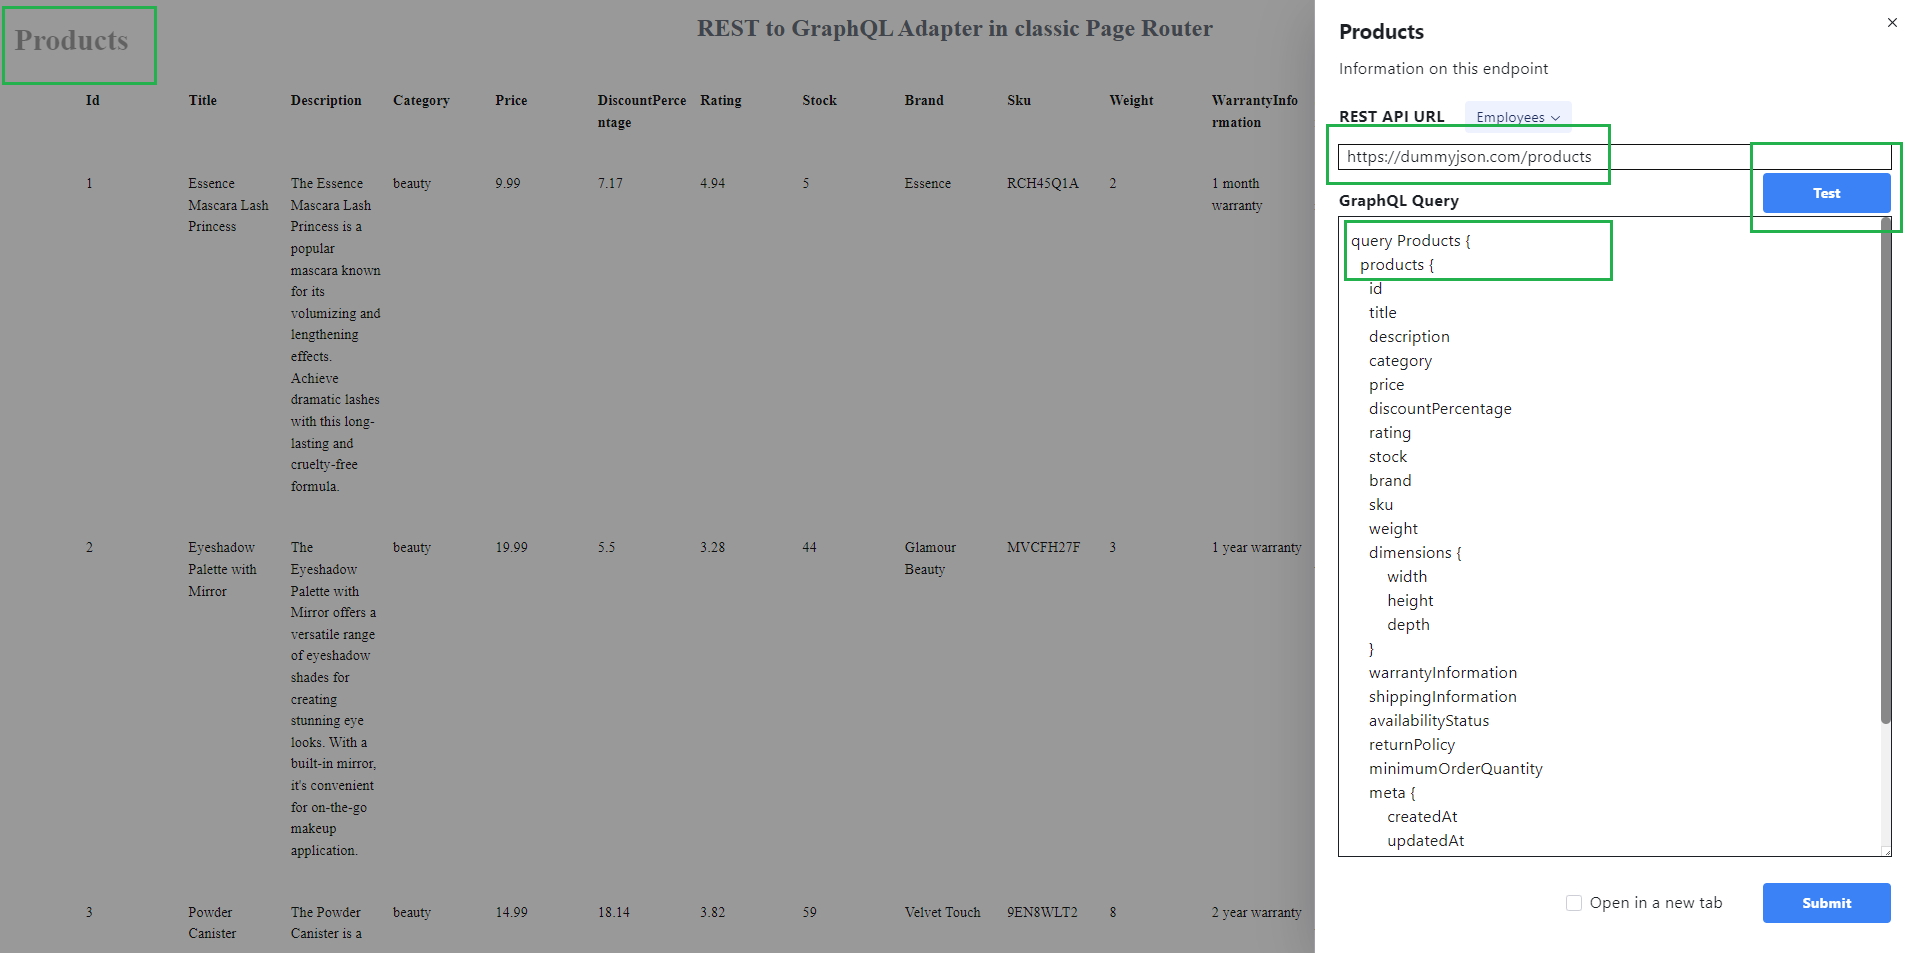
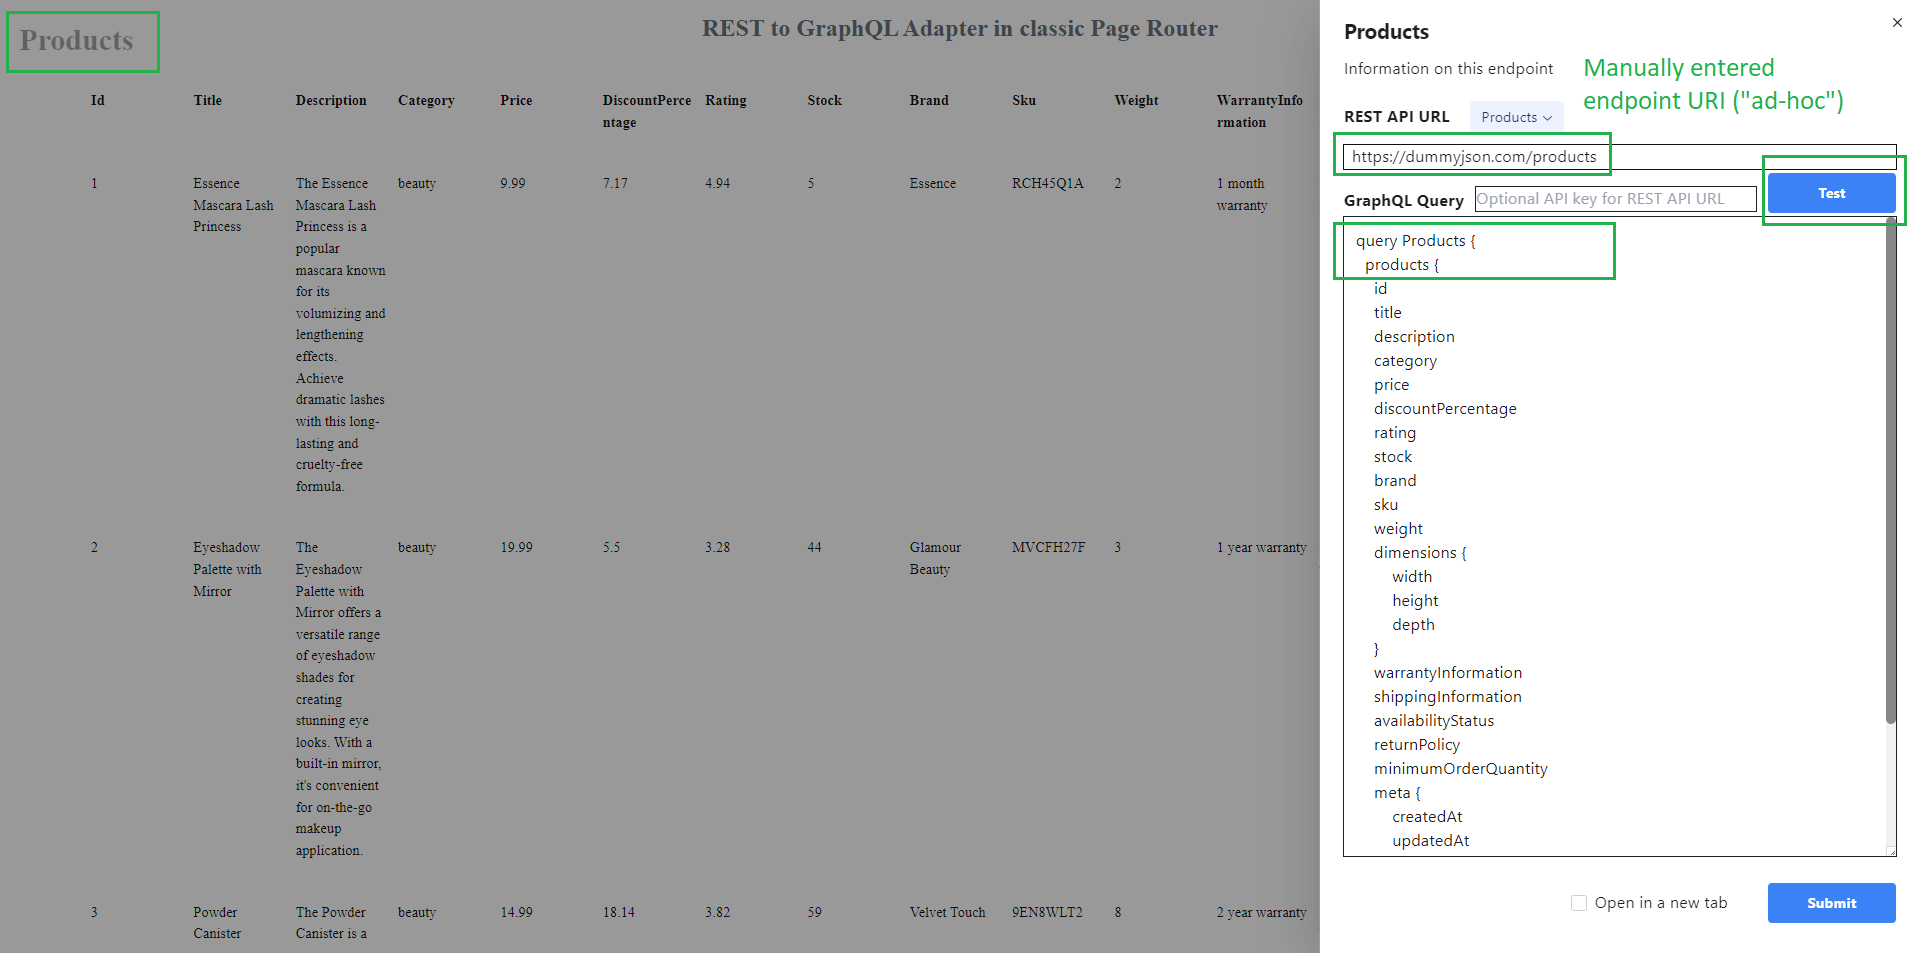
Version 1.1 supports optional individual API KEYs per each REST API endpoint

diff --git a/components/client/panels/AdjustFormFields.tsx b/components/client/panels/AdjustFormFields.tsx
@@ -13,16 +13,16 @@ function AdjustFormFields({
   setErrorMessage: (value: string) => void;
 }) {
   const getData = async () => {
-    const queryAdapter = new RestToGraphqlQueryAdapterClient(restEndpointUri);
-    const isAdHocUrl = !queryAdapter.isRegisteredUrl();
-    if (isAdHocUrl) {
-      queryAdapter.addAuthorizationHeader(apiKeyEnteredOnClient);
-    }
-    let { entityName, rootTypeName } = queryAdapter.getEntity();
-
-    const origin =
-      typeof window !== undefined ? window.location.origin : undefined;
     try {
+      const queryAdapter = new RestToGraphqlQueryAdapterClient(restEndpointUri);
+      const isAdHocUrl = !queryAdapter.isRegisteredUrl();
+      if (isAdHocUrl) {
+        queryAdapter.addAuthorizationHeader(apiKeyEnteredOnClient);
+      }
+      let { entityName, rootTypeName } = queryAdapter.getEntity();
+
+      const origin =
+        typeof window !== undefined ? window.location.origin : undefined;
       let data = queryAdapter.isRegisteredUrl()
         ? await queryAdapter.getGraphqlDataUsingApi(
             rootTypeName,

diff --git a/components/client/panels/UrlSelector.tsx b/components/client/panels/UrlSelector.tsx
@@ -23,7 +23,12 @@ export default function UrlSelector({ selectedUrl, onValueChange }: Props) {
           let entity = getRegisteredEntity(url);
           if (!entity) {
             const queryAdapter = new RestToGraphqlQueryAdapter(url);
-            entity = queryAdapter.getEntity();
+            try {
+              entity = queryAdapter.getEntity();
+            } catch (e) {
+              console.log(e);
+              return;
+            }
           }
           return (
             <Select.Item key={url} value={url}>

diff --git a/components/client/panels/FormUpdateQueryText.tsx b/components/client/panels/FormUpdateQueryText.tsx
@@ -168,7 +168,7 @@ export default function FormUpdateQueryText({
     <>
       {changeHome}
       <div className="flex gap-5 items-center pb-3">
-        <div className="font-semibold">REST API URL</div>
+        <div className="font-semibold whitespace-nowrap">REST API URL</div>
         <UrlSelector selectedUrl={url} onValueChange={handleSelectedValue} />
         <div className="text-red-600">{errorMessage}</div>
       </div>

diff --git a/README.md b/README.md
@@ -4,6 +4,42 @@ Developers have been using REST APIs for years to interact with backend data. Ho
 
 This web app provides automatic transformation of REST API endpoints into GraphQL schema entities, making them available for regular GraphQL queries with filters, field selections, dynamic variables, and free-text search. The app supports preconfigured "plug-and-play" REST API endpoints as well as dynamic REST data sources.
 
+## Version 1.1, Oct 19, 2024
+
+This release supports optional individual API KEYs per each REST API endpoint.
+
+- Optional API Keys for pre-registered REST API endpoints should be configured in .env (.env.local) under the key SERVER_ONLY_restApiKeys
+  like shown below
+
+  ```bash
+  # Optionally, you can add API keys for some of the endpoints above.
+  # Keys support regex notation. Their values should be separated with a colon.
+  # API KEYS configured here stay on the server side and are never exposed to the client side.
+  SERVER_ONLY_restApiKeys="
+    employees:ApiKey1
+    albums$:ApiKeyForAlbums
+    dummyjson.+users$:ApiKeyWithRegexForTheLastEndpoint
+  "
+  # These REST API endpoints are exposed on both the server and the client sides.
+  NEXT_PUBLIC_restEndpoints="
+    http://localhost:4000/employees?_sort=displayName&_order=asc
+    https://jsonplaceholder.typicode.com/posts
+    https://jsonplaceholder.typicode.com/comments
+    https://jsonplaceholder.typicode.com/albums
+    https://jsonplaceholder.typicode.com/photos
+    https://jsonplaceholder.typicode.com/todos
+    https://jsonplaceholder.typicode.com/users
+    https://dummyjson.com/users"
+  ```
+
+- API Keys for "ad-hoc" REST API endpoints can be entered directly into the UI of the right-hand panel "Compact playground".
+
+## Version 1.0
+
+This was the initial release of the main adapter's functionality.
+
+- This version provided a optional generic placeholder to support a single global API KEY shared by all REST endpoints.
+
 # Screenshots
 
 ![Default Homepage in dark system theme](docs/images/1_default-homepage-dark-mode.png "Default Homepage in dark system theme")
@@ -103,9 +139,9 @@ const responseTransformer = async (response: Response) => {
 
   - The button **Test** provides quick evaluations of REST API endpoints. Clicking on the button generates GraphQL schema to the text area, executes GraphQL query and shows results in the main (central) content pane. In case of errors, it shows error messages with details. This option makes it easy to bring and test new endpoints not included in the default set, for instance, https://dummyjson.com/products
 
-  - The button **Submit** generates a stable URL for the currently open query ("permalink") and redirects to this URL.
+  - The button **Submit** generates a stable link URL for the currently open query ("permalink") and redirects to this URL.
     The URL can be saved and reused in the same environment, for instance, after restarting the server.
-    The logic of redirects uses dynamic routes of Next.js (/url/[[...slug]].tsx) that look like **/url/[encoded REST API URL]/[encoded GraphQL Query]**.
+    The logic of redirects uses dynamic routes of Next.js (/url/[[...slug]].tsx) that look like **/url/[encoded REST API URL]/[encoded GraphQL Query]**. Stable links are not generated for "ad-hoc" REST API endpoints in case if a dynamic individual API KEY was entered for it.
 
 # Typical use cases
 
